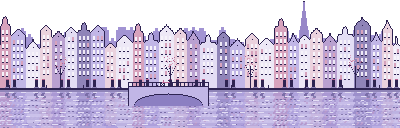
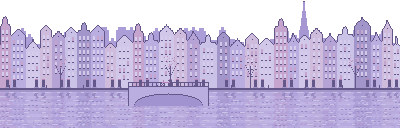
Make the Amsterdam skyline bigger and softer
Claude-Session: https://claude.ai/code/session_013VWYto3vodYce8HmJyEe1r

diff --git a/css/desktop.css b/css/desktop.css
@@ -54,12 +54,12 @@ button { font: inherit; color: inherit; }
 .wp-city {
   position: absolute;
   left: 0; right: 0; bottom: 0;
-  height: 46vh;
+  height: 64vh;
   background: url("../assets/amsterdam-pixel.png") repeat-x left bottom / auto 100%;
   image-rendering: pixelated;
   image-rendering: crisp-edges;
 }
-@media (max-width: 700px) { .wp-city { height: 30vh; } }
+@media (max-width: 700px) { .wp-city { height: 40vh; } }
 .wp-obj { position: absolute; height: auto; opacity: 0.95; filter: drop-shadow(0 10px 24px rgba(46, 36, 82, 0.18)); }
 .wp-word {
   position: absolute;
